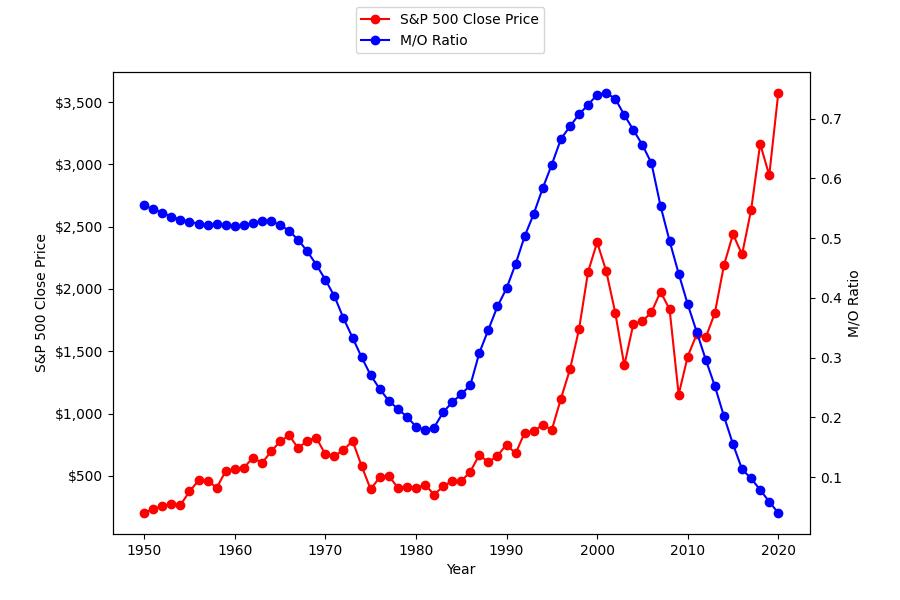
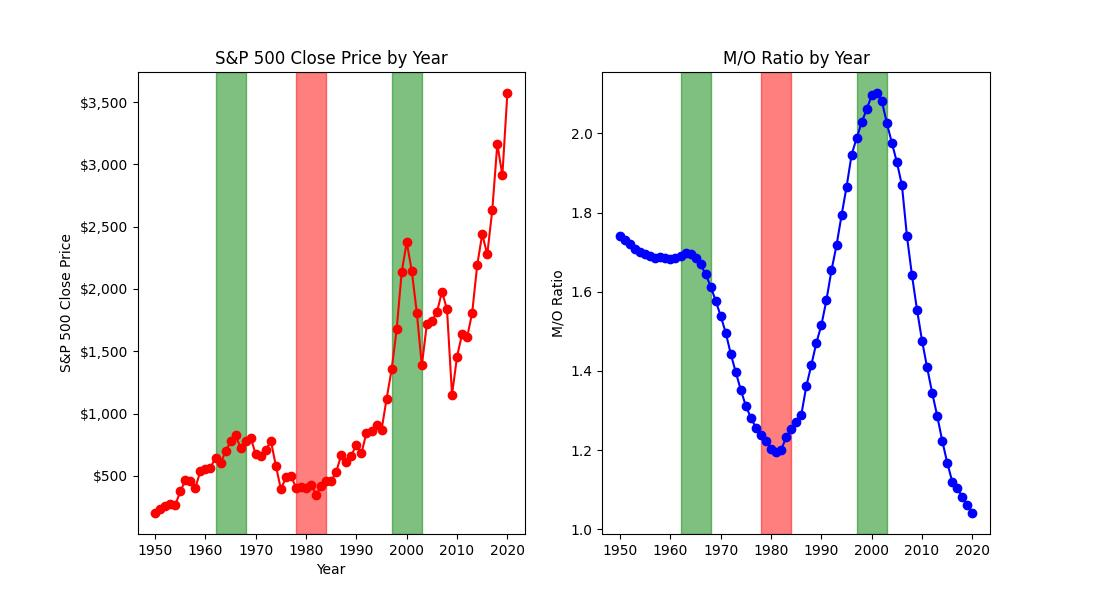
Change to side by side charts

diff --git a/analyze_data/stock_price_mo_ratio_line_chart.py b/analyze_data/stock_price_mo_ratio_line_chart.py
@@ -42,9 +42,8 @@ def read_and_join_data(stockPriceCsv, moRatioCsv):
 
 def plot_data(data):
     """
-    Plot the stock price and middle-to-old ratio data on a line chart
-    with the same x-axis (Year), each with its own y-axis. Then, save 
-    an image of the chart. 
+    Plot the stock price and middle-to-old ratio data on side-by-side
+    line charts. Then, save an image of the chart. 
     
     Parameters:
     -----------
@@ -53,33 +52,36 @@ def plot_data(data):
 
     """
 
-    data['M/O Ratio'] = np.log(data['M/O Ratio'])
-
     # Create figure and axis objects.
-    fig, ax = plt.subplots()
+    fig, ax = plt.subplots(nrows=1, ncols=2, figsize=(11, 6))
 
     # Plot the stock data.
-    ax.plot(data['Year'],
-            data['Close Price'],
-            color='red',
-            marker='o',
-            label='S&P 500 Close Price')
-    ax.set_xlabel('Year')
-    ax.set_ylabel('S&P 500 Close Price')
-    ax.yaxis.set_major_formatter('${x:,.0f}')
+    ax[0].plot(data['Year'],
+               data['Close Price'],
+               color='red',
+               marker='o',
+               label='S&P 500 Close Price')
+    ax[0].set_xlabel('Year')
+    ax[0].set_ylabel('S&P 500 Close Price')
+    ax[0].set_title('S&P 500 Close Price by Year')
+    ax[0].yaxis.set_major_formatter('${x:,.0f}')
 
     # Plot the m/o ratio data.
-    ax2 = ax.twinx()
-    ax2.plot(data['Year'],
-             data['M/O Ratio'],
-             color='blue',
-             marker='o',
-             label='M/O Ratio')
-    ax2.set_ylabel('M/O Ratio')
+    ax[1].plot(data['Year'],
+               data['M/O Ratio'],
+               color='blue',
+               marker='o',
+               label='M/O Ratio')
+    ax[1].set_ylabel('M/O Ratio')
+    ax[1].set_title('M/O Ratio by Year')
 
-    # Modify figure settings.
-    fig.legend(loc='upper center')
-    fig.set_size_inches(9, 6)
+    # Highlight local maxima and minima.
+    ax[0].axvspan(1962, 1968, color='green', alpha=0.5)
+    ax[1].axvspan(1962, 1968, color='green', alpha=0.5)
+    ax[0].axvspan(1978, 1984, color='red', alpha=0.5)
+    ax[1].axvspan(1978, 1984, color='red', alpha=0.5)
+    ax[0].axvspan(1997, 2003, color='green', alpha=0.5)
+    ax[1].axvspan(1997, 2003, color='green', alpha=0.5)
 
     # Save the chart as a file.
     fig.savefig('analyze_data/stock_price_mo_ratio_line_chart.jpg',
